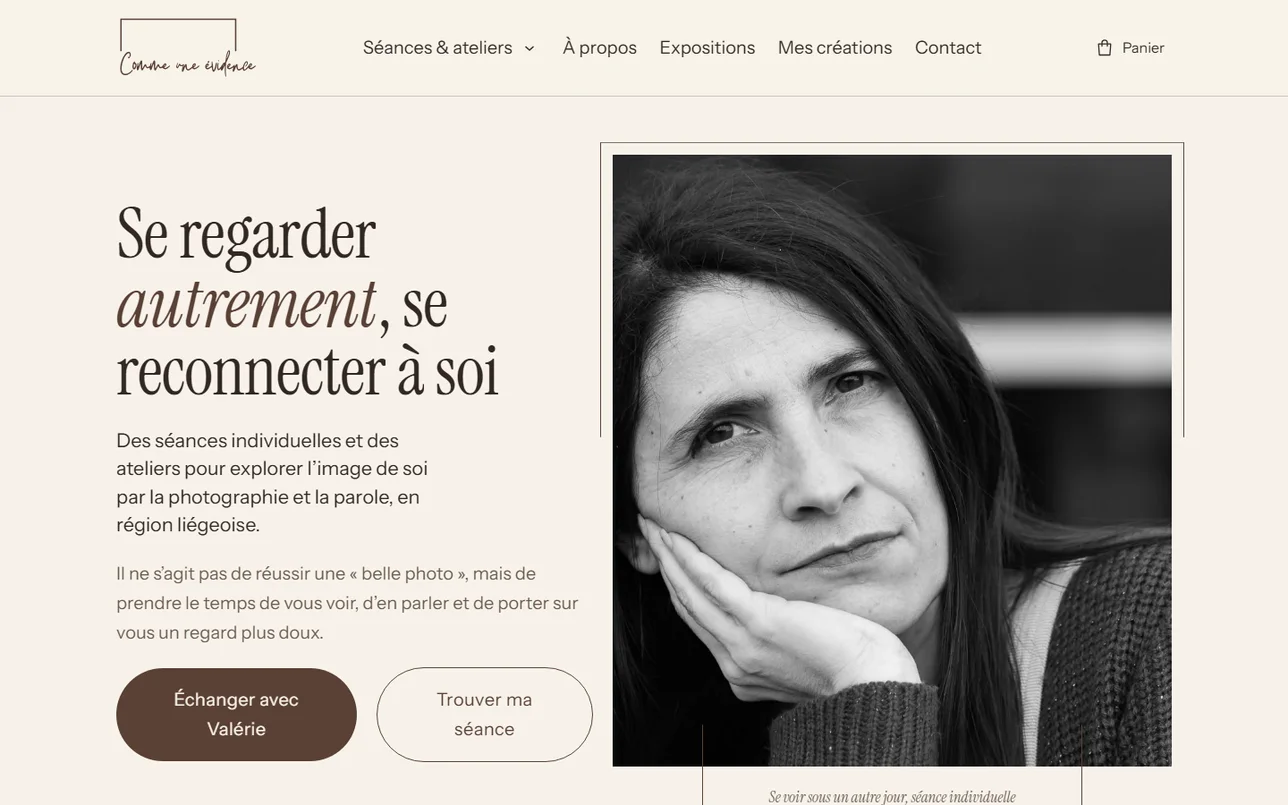
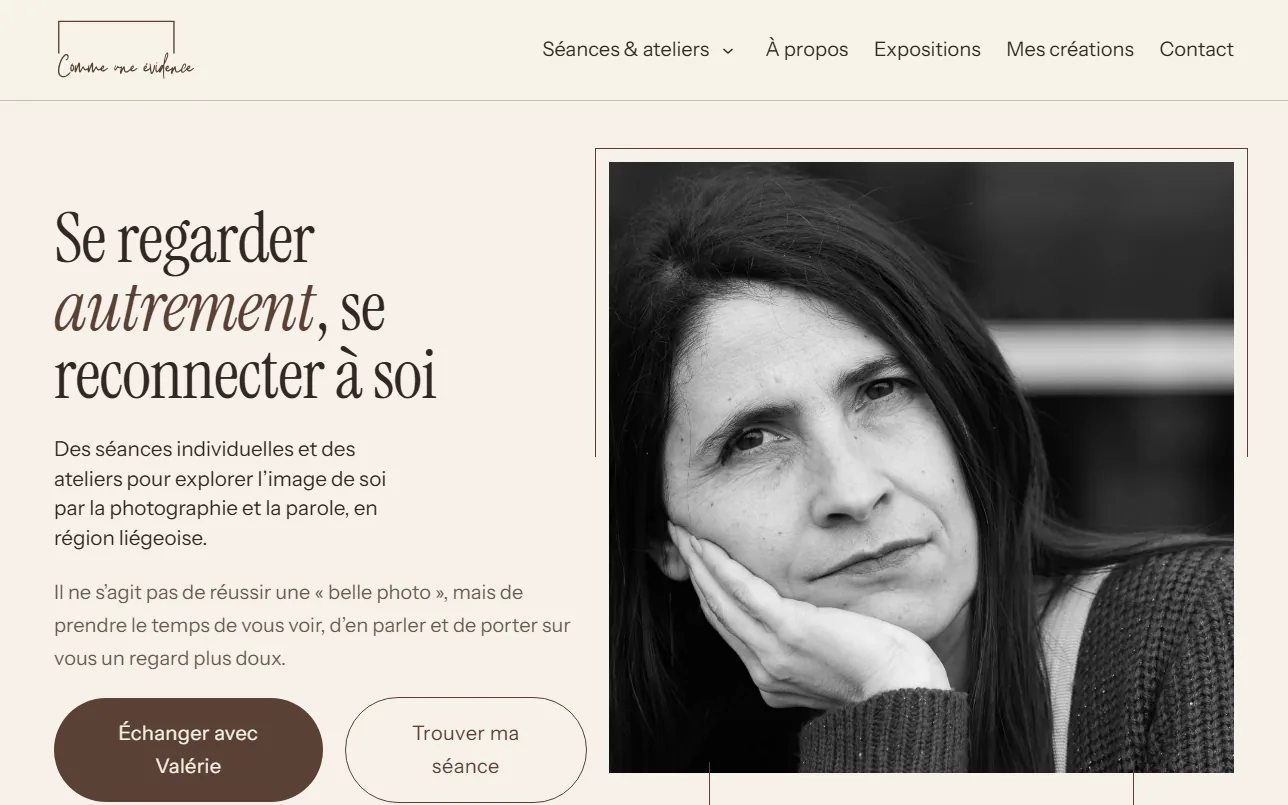
Site de la marraine : captures du 24/11, vitrine sans prix, retours de Valérie

diff --git a/fr/index.html b/fr/index.html
@@ -66,7 +66,7 @@
 <section id="how" class="how-sec" aria-labelledby="how-title">
   <h2 id="how-title">Ma façon de travailler</h2>
   <p class="lede how-p">Quatre choses que vous pouvez attendre de moi dans une équipe. Chacune renvoie à sa preuve sur cette page.</p>
-  <ul class="how"><li><b>01</b><h3>J’apprends vite</h3><p>Le 12 novembre, j’ai ouvert Figma pour la première fois à 8 h 30. À 22 h 45, j’envoyais huit publicités pour une épreuve de recrutement.</p><a class="more" href="#ads">L’épreuve ↓</a></li><li><b>02</b><h3>Je suis à l’écoute</h3><p>Je lis ce que le public écrit et je le note tel quel : c’est ainsi que j’ai relevé les demandes « où acheter » sous les vidéos d’Owen. Pour le site de ma marraine, je suis parti de la situation de ses visiteurs.</p><a class="more" href="#demande">Les demandes ↓</a></li><li><b>03</b><h3>Je me remets en question</h3><p>Chaque dimanche, j’écris ce que je garde, ce que je change et ce que j’arrête. Le Verdict ne marchait pas : je l’ai refait, et il est passé de 3&nbsp;400 à 26&nbsp;900 vues médianes.</p><a class="more" href="#verdict">La décision ↓</a></li><li><b>04</b><h3>Je prends des initiatives</h3><p>Personne ne m’a demandé Owen : j’ai lancé le compte seul, de zéro, avec sa production, son guide et sa boutique. J’ai aussi refait bénévolement le site de ma marraine.</p><a class="more" href="#owen">Le cas Owen ↓</a></li></ul>
+  <ul class="how"><li><b>01</b><h3>J’apprends vite</h3><p>Le 12 novembre, j’ai ouvert Figma pour la première fois à 8 h 30. À 22 h 45, j’envoyais huit publicités pour une épreuve de recrutement.</p><a class="more" href="#ads">L’épreuve ↓</a></li><li><b>02</b><h3>Je suis à l’écoute</h3><p>Je lis ce que le public écrit et je le note tel quel : c’est ainsi que j’ai relevé les demandes « où acheter » sous les vidéos d’Owen. Pour le site de ma marraine, je suis parti de la situation de ses visiteurs, puis j’ai intégré ses retours sur la première version.</p><a class="more" href="#demande">Les demandes ↓</a></li><li><b>03</b><h3>Je me remets en question</h3><p>Chaque dimanche, j’écris ce que je garde, ce que je change et ce que j’arrête. Le Verdict ne marchait pas : je l’ai refait, et il est passé de 3&nbsp;400 à 26&nbsp;900 vues médianes.</p><a class="more" href="#verdict">La décision ↓</a></li><li><b>04</b><h3>Je prends des initiatives</h3><p>Personne ne m’a demandé Owen : j’ai lancé le compte seul, de zéro, avec sa production, son guide et sa boutique. J’ai aussi refait bénévolement le site de ma marraine.</p><a class="more" href="#owen">Le cas Owen ↓</a></li></ul>
 </section>
 
 <section id="owen" class="proj" aria-labelledby="owen-title">
@@ -142,7 +142,7 @@
 
 <section id="web" class="proj web" aria-labelledby="web-title">
   <h2 id="web-title">Refonte WordPress : une offre claire, facile à réserver</h2>
-  <dl class="fiche"><div><dt>Le problème</dt><dd>Le site de ma marraine, photographe thérapeutique, s’ouvrait sur une photo plein écran à côté d’un menu à un seul lien : le visiteur ne comprenait ni ce qu’elle propose ni comment réserver.</dd></div><div><dt>Ce que j’ai fait</dt><dd>Je l’ai reconstruit sur WordPress à partir d’une question : dans quelle situation le visiteur arrive-t-il, et quel est son prochain pas ? Quatre décisions en découlent, détaillées plus bas.</dd></div><div class="res"><dt>Le résultat</dt><dd>Le site est livré et en ligne : <a href="https://valeriebruckmann.be/" target="_blank" rel="noopener">valeriebruckmann.be</a>. Pas encore de mesure de visites ni de demandes : je n’avance donc aucun chiffre.</dd></div></dl><p class="role"><b>Mon rôle :</b> tout, bénévolement (structure, mise en page sur WordPress, boutique et cadre légal).</p>
+  <dl class="fiche"><div><dt>Le problème</dt><dd>Le site de ma marraine, photographe thérapeutique, s’ouvrait sur une photo plein écran à côté d’un menu à un seul lien : le visiteur ne comprenait ni ce qu’elle propose ni comment réserver.</dd></div><div><dt>Ce que j’ai fait</dt><dd>Je l’ai reconstruit sur WordPress à partir d’une question : dans quelle situation le visiteur arrive-t-il, et quel est son prochain pas ? Quatre décisions en découlent, détaillées plus bas.</dd></div><div class="res"><dt>Le résultat</dt><dd>Le site est en ligne depuis le 20 novembre 2026 : <a href="https://valeriebruckmann.be/" target="_blank" rel="noopener">valeriebruckmann.be</a>. Valérie a relu la première version le 23 ; ses retours étaient en ligne le lendemain. Pas encore de mesure de visites ni de demandes : je n’avance donc aucun chiffre.</dd></div></dl><p class="role"><b>Mon rôle :</b> tout, bénévolement : structure, mise en page sur WordPress, galeries, pages légales et mise en ligne.</p>
   <p class="hint">Faites glisser la poignée pour comparer.</p>
   <div class="ba" style="--pos:50%">
     <img class="ba-after" src="../assets/cue-after.webp" width="1288" height="805" alt="Nouvel accueil : à quoi sert une séance, deux boutons clairs" loading="lazy">
@@ -150,12 +150,12 @@
     <span class="ba-tag l">Avant</span><span class="ba-tag r">Après</span><span class="ba-handle" aria-hidden="true"></span>
     <input type="range" min="0" max="100" value="50" aria-label="Comparer l’ancien et le nouvel accueil">
   </div>
-  <p class="note">Avant : l’ancien accueil, relevé le 13 novembre 2026. Après : la nouvelle version, en ligne depuis novembre 2026.</p>
+  <p class="note">Avant : l’ancien accueil, relevé le 13 novembre 2026. Après : l’accueil en ligne, relevé le 24 novembre 2026.</p>
   <h3 class="sub-h">Quatre décisions</h3>
-  <ol class="rules four"><li><h4>Dire à quoi sert une séance</h4><p>Avant : une photo plein écran, sans un mot. Après : « Se regarder autrement, se reconnecter à soi », puis une phrase qui dit ce qu’on vient y faire.</p></li><li><h4>Entrer par son besoin</h4><p>« Vous venez… pour moi, pour un mariage, en groupe » : trois entrées, chacune vers la bonne séance.</p></li><li><h4>Réserver dès l’accueil</h4><p>Deux boutons en haut de page : « Échanger avec Valérie », vers le contact, et « Trouver ma séance », vers les formules. L’appel revient en bas de page.</p></li><li><h4>Vendre et rassurer</h4><p>Une boutique de tirages, des témoignages, des mentions légales et un bandeau cookies : le site peut encaisser et il est en règle.</p></li></ol>
+  <ol class="rules four"><li><h4>Dire à quoi sert une séance</h4><p>Avant : une photo plein écran, sans un mot. Après : « Se regarder autrement, se reconnecter à soi », puis une phrase qui dit ce qu’on vient y faire.</p></li><li><h4>Entrer par son besoin</h4><p>« Vous venez… pour moi, pour un événement, en groupe » : trois entrées, chacune vers la bonne séance. « Mariage » est devenu « Événements de vie » à la demande de Valérie.</p></li><li><h4>Montrer avant d’expliquer</h4><p>Une bande de photos sur l’accueil : chaque photo ouvre sa série, déjà filtrée (mariage, baptême, spectacle…). Les 91 photos envoyées par Valérie sont rangées par événement.</p></li><li><h4>Réserver et rassurer</h4><p>Deux boutons dès l’accueil, « Échanger avec Valérie » et « Trouver ma séance », puis des témoignages et des mentions légales. Les tirages sont montrés sans prix tant qu’elle ne les a pas validés : on les demande par le formulaire.</p></li></ol>
   <div class="web-shots">
-    <figure><img src="../assets/cue-paths.webp" width="1400" height="1118" alt="" loading="lazy"><figcaption>Trois façons de travailler ensemble : le visiteur choisit sa situation.</figcaption></figure>
-    <figure><img src="../assets/cue-shop.webp" width="1400" height="1361" alt="" loading="lazy"><figcaption>La boutique de tirages.</figcaption></figure>
+    <figure><img src="../assets/cue-paths.webp" width="1400" height="1400" alt="" loading="lazy"><figcaption>Trois façons de travailler ensemble : le visiteur choisit sa situation.</figcaption></figure>
+    <figure><img src="../assets/cue-planche.webp" width="1400" height="1620" alt="" loading="lazy"><figcaption>Une photo de l’accueil ouvre sa série, déjà filtrée.</figcaption></figure>
   </div>
 </section>
 

diff --git a/index.html b/index.html
@@ -66,7 +66,7 @@
 <section id="how" class="how-sec" aria-labelledby="how-title">
   <h2 id="how-title">How I work</h2>
   <p class="lede how-p">Four things you can expect from me in a team. Each one links to its proof on this page.</p>
-  <ul class="how"><li><b>01</b><h3>I learn fast</h3><p>On 12 November I opened Figma for the first time at 8:30. At 22:45 I sent eight ads for a hiring test.</p><a class="more" href="#ads">The test ↓</a></li><li><b>02</b><h3>I listen</h3><p>I read what the audience writes and log it word for word: that is how I picked up the “where to buy” requests under Owen’s videos. For my godmother’s site, I started from her visitors’ situation.</p><a class="more" href="#demande">The requests ↓</a></li><li><b>03</b><h3>I question my own work</h3><p>Every Sunday I write down what I keep, what I change and what I stop. The Verdict wasn’t working: I rebuilt it, and it went from 3,400 to 26,900 median views.</p><a class="more" href="#verdict">The decision ↓</a></li><li><b>04</b><h3>I take initiative</h3><p>Nobody asked me for Owen: I launched the account alone, from zero, with its production, its guide and its store. I also rebuilt my godmother’s site as a volunteer.</p><a class="more" href="#owen">The Owen case ↓</a></li></ul>
+  <ul class="how"><li><b>01</b><h3>I learn fast</h3><p>On 12 November I opened Figma for the first time at 8:30. At 22:45 I sent eight ads for a hiring test.</p><a class="more" href="#ads">The test ↓</a></li><li><b>02</b><h3>I listen</h3><p>I read what the audience writes and log it word for word: that is how I picked up the “where to buy” requests under Owen’s videos. For my godmother’s site, I started from her visitors’ situation, then worked her feedback on the first version into the site.</p><a class="more" href="#demande">The requests ↓</a></li><li><b>03</b><h3>I question my own work</h3><p>Every Sunday I write down what I keep, what I change and what I stop. The Verdict wasn’t working: I rebuilt it, and it went from 3,400 to 26,900 median views.</p><a class="more" href="#verdict">The decision ↓</a></li><li><b>04</b><h3>I take initiative</h3><p>Nobody asked me for Owen: I launched the account alone, from zero, with its production, its guide and its store. I also rebuilt my godmother’s site as a volunteer.</p><a class="more" href="#owen">The Owen case ↓</a></li></ul>
 </section>
 
 <section id="owen" class="proj" aria-labelledby="owen-title">
@@ -142,7 +142,7 @@
 
 <section id="web" class="proj web" aria-labelledby="web-title">
   <h2 id="web-title">WordPress rebuild: a clear offer, easy to book</h2>
-  <dl class="fiche"><div><dt>The problem</dt><dd>The website of my godmother, a therapeutic photographer, opened on a full-screen photo next to a menu with a single link: a visitor couldn’t tell what she offers or how to book.</dd></div><div><dt>What I did</dt><dd>I rebuilt it on WordPress from one question: what situation is the visitor in when they arrive, and what is their next step? Four decisions follow, detailed below.</dd></div><div class="res"><dt>The result</dt><dd>The site is delivered and live: <a href="https://valeriebruckmann.be/" target="_blank" rel="noopener">valeriebruckmann.be</a>. No visits or enquiries measured yet, so I claim no figure.</dd></div></dl><p class="role"><b>My role:</b> everything, as a volunteer: structure, WordPress layout, shop and legal pages.</p>
+  <dl class="fiche"><div><dt>The problem</dt><dd>The website of my godmother, a therapeutic photographer, opened on a full-screen photo next to a menu with a single link: a visitor couldn’t tell what she offers or how to book.</dd></div><div><dt>What I did</dt><dd>I rebuilt it on WordPress from one question: what situation is the visitor in when they arrive, and what is their next step? Four decisions follow, detailed below.</dd></div><div class="res"><dt>The result</dt><dd>The site has been live since 20 November 2026: <a href="https://valeriebruckmann.be/" target="_blank" rel="noopener">valeriebruckmann.be</a>. Valérie reviewed the first version on the 23rd; her feedback was live the next day. No visits or enquiries measured yet, so I claim no figure.</dd></div></dl><p class="role"><b>My role:</b> everything, as a volunteer: structure, WordPress layout, galleries, legal pages and launch.</p>
   <p class="hint">Drag the handle to compare.</p>
   <div class="ba" style="--pos:50%">
     <img class="ba-after" src="assets/cue-after.webp" width="1288" height="805" alt="New homepage: what a session is for, two clear buttons" loading="lazy">
@@ -150,12 +150,12 @@
     <span class="ba-tag l">Before</span><span class="ba-tag r">After</span><span class="ba-handle" aria-hidden="true"></span>
     <input type="range" min="0" max="100" value="50" aria-label="Compare the old and the new homepage">
   </div>
-  <p class="note">Before: the old homepage, captured on 13 November 2026. After: the new version, live since November 2026.</p>
+  <p class="note">Before: the old homepage, captured on 13 November 2026. After: the live homepage, captured on 24 November 2026.</p>
   <h3 class="sub-h">Four decisions</h3>
-  <ol class="rules four"><li><h4>Say what a session is for</h4><p>Before: a full-screen photo, not a word. After: “See yourself differently, reconnect with yourself”, then one sentence on what you come for.</p></li><li><h4>Enter through your need</h4><p>“You’re coming… for me, for a wedding, as a group”: three entrances, each leading to the right session.</p></li><li><h4>Book from the homepage</h4><p>Two buttons at the top: “Talk to Valérie”, to the contact page, and “Find my session”, to the offers. The call comes back at the bottom.</p></li><li><h4>Sell and reassure</h4><p>A print shop, testimonials, a legal notice and cookie consent: the site can take payments and it is compliant.</p></li></ol>
+  <ol class="rules four"><li><h4>Say what a session is for</h4><p>Before: a full-screen photo, not a word. After: “See yourself differently, reconnect with yourself”, then one sentence on what you come for.</p></li><li><h4>Enter through your need</h4><p>“You’re coming… for me, for an event, as a group”: three entrances, each leading to the right session. “Wedding” became “Life events” at Valérie’s request.</p></li><li><h4>Show before you explain</h4><p>A strip of photos on the homepage: each one opens its series, already filtered (wedding, christening, show…). The 91 photos Valérie sent are sorted by event.</p></li><li><h4>Book and reassure</h4><p>Two buttons from the homepage, “Talk to Valérie” and “Find my session”, then testimonials and a legal notice. Prints are shown without prices until she has approved them: visitors ask for one through the form.</p></li></ol>
   <div class="web-shots">
-    <figure><img src="assets/cue-paths.webp" width="1400" height="1118" alt="" loading="lazy"><figcaption>Three ways to work together: visitors pick their situation.</figcaption></figure>
-    <figure><img src="assets/cue-shop.webp" width="1400" height="1361" alt="" loading="lazy"><figcaption>The print shop.</figcaption></figure>
+    <figure><img src="assets/cue-paths.webp" width="1400" height="1400" alt="" loading="lazy"><figcaption>Three ways to work together: visitors pick their situation.</figcaption></figure>
+    <figure><img src="assets/cue-planche.webp" width="1400" height="1620" alt="" loading="lazy"><figcaption>A homepage photo opens its series, already filtered.</figcaption></figure>
   </div>
 </section>
 
